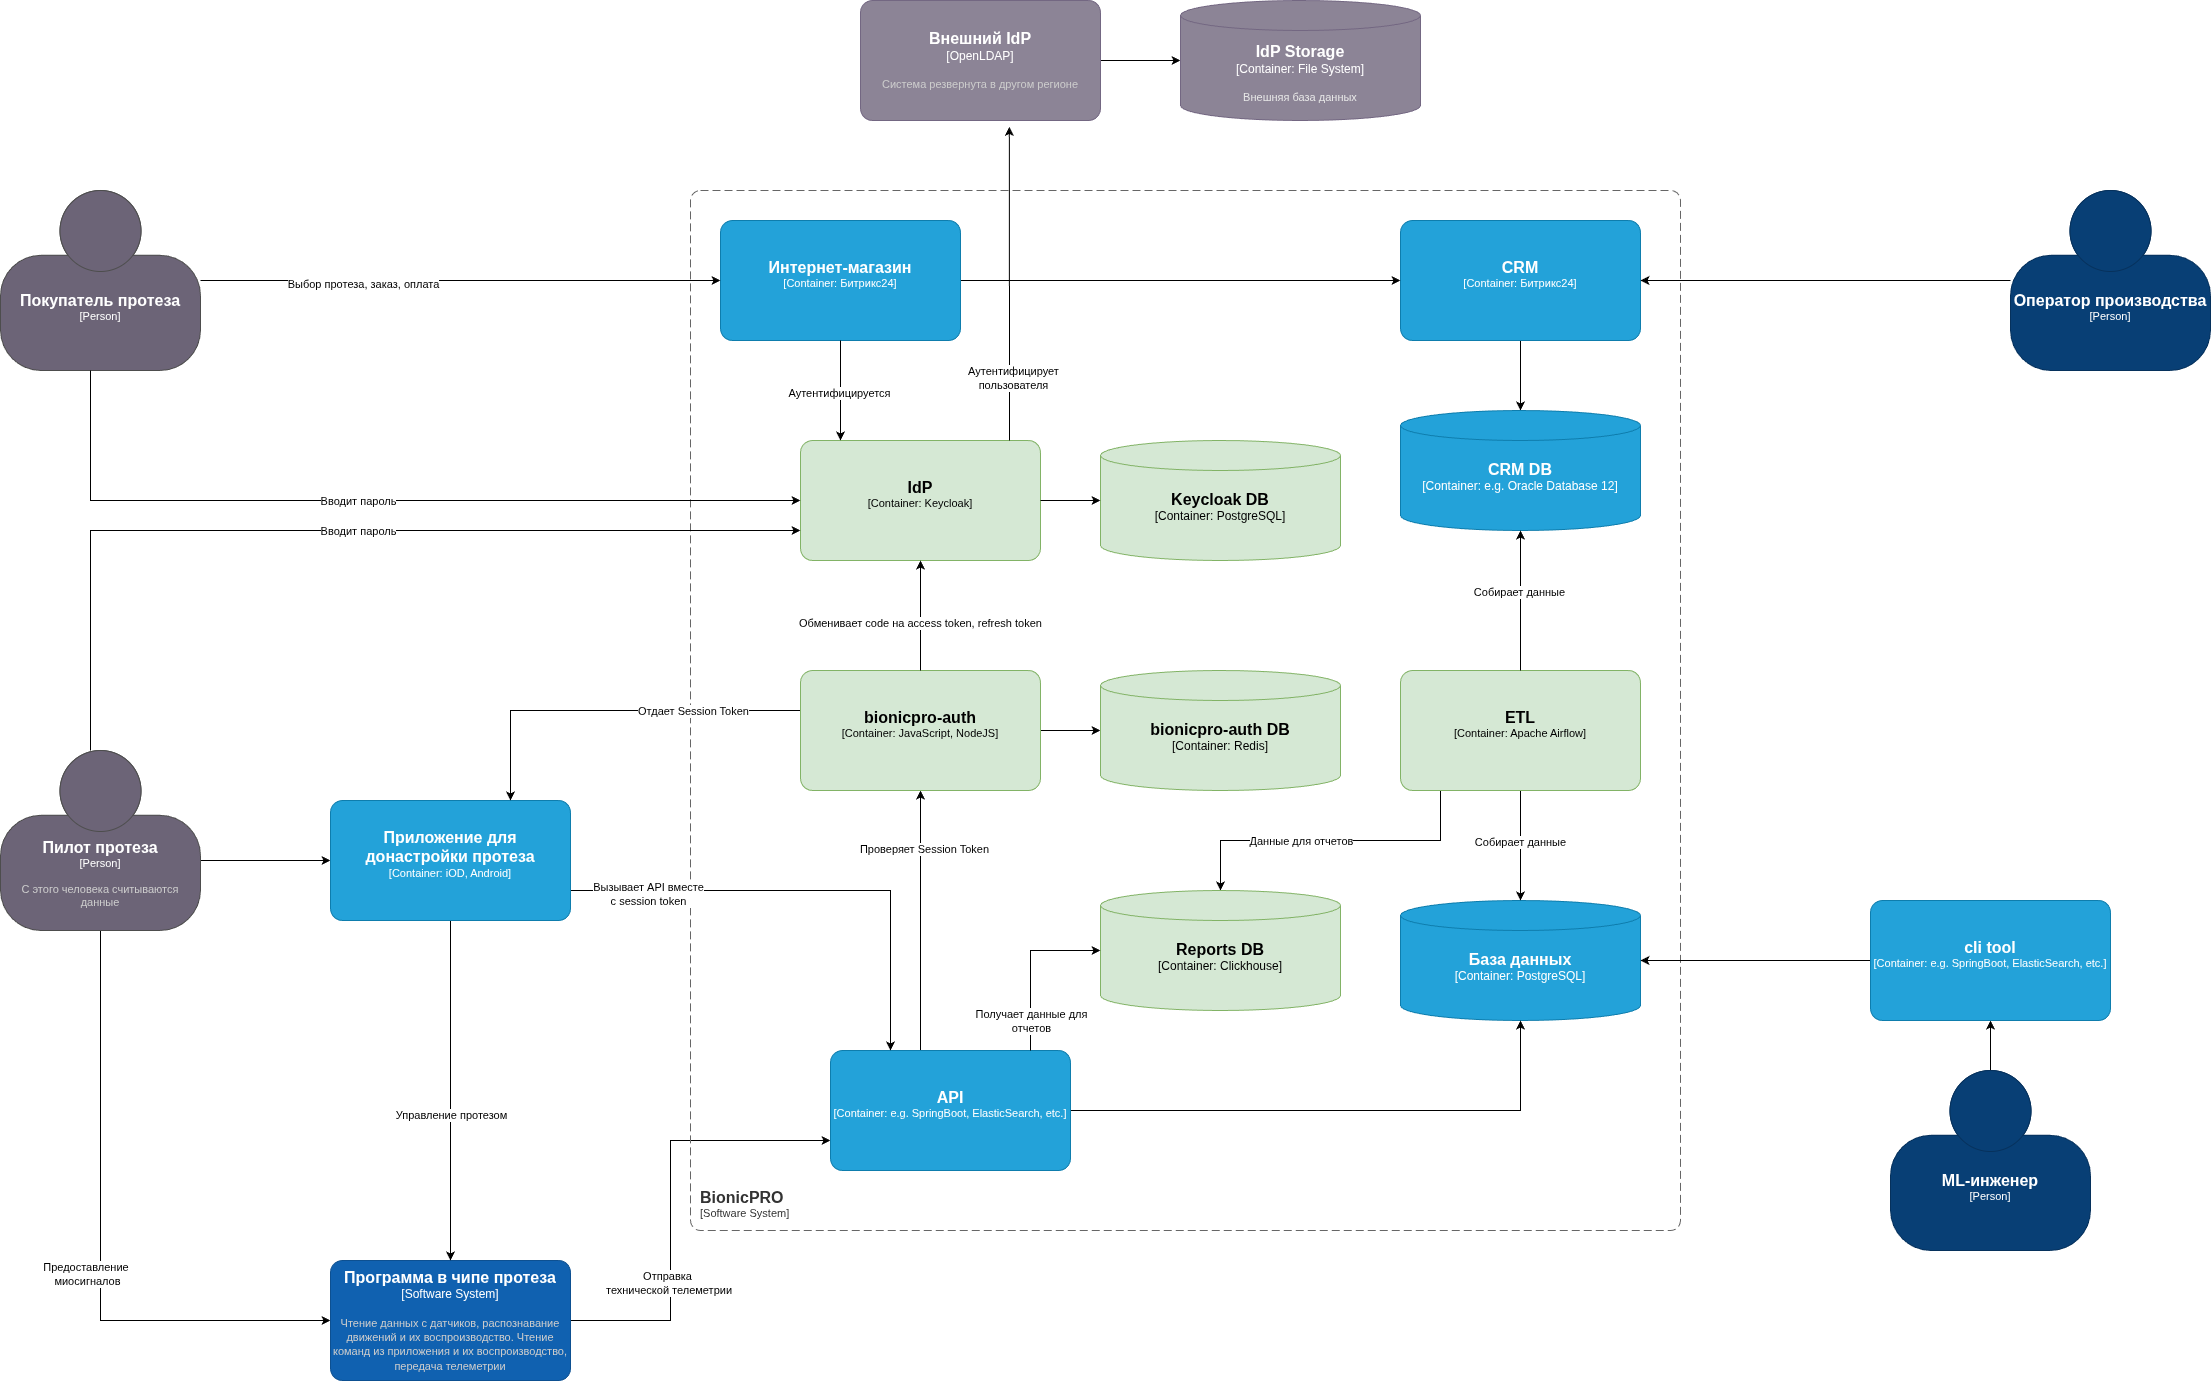
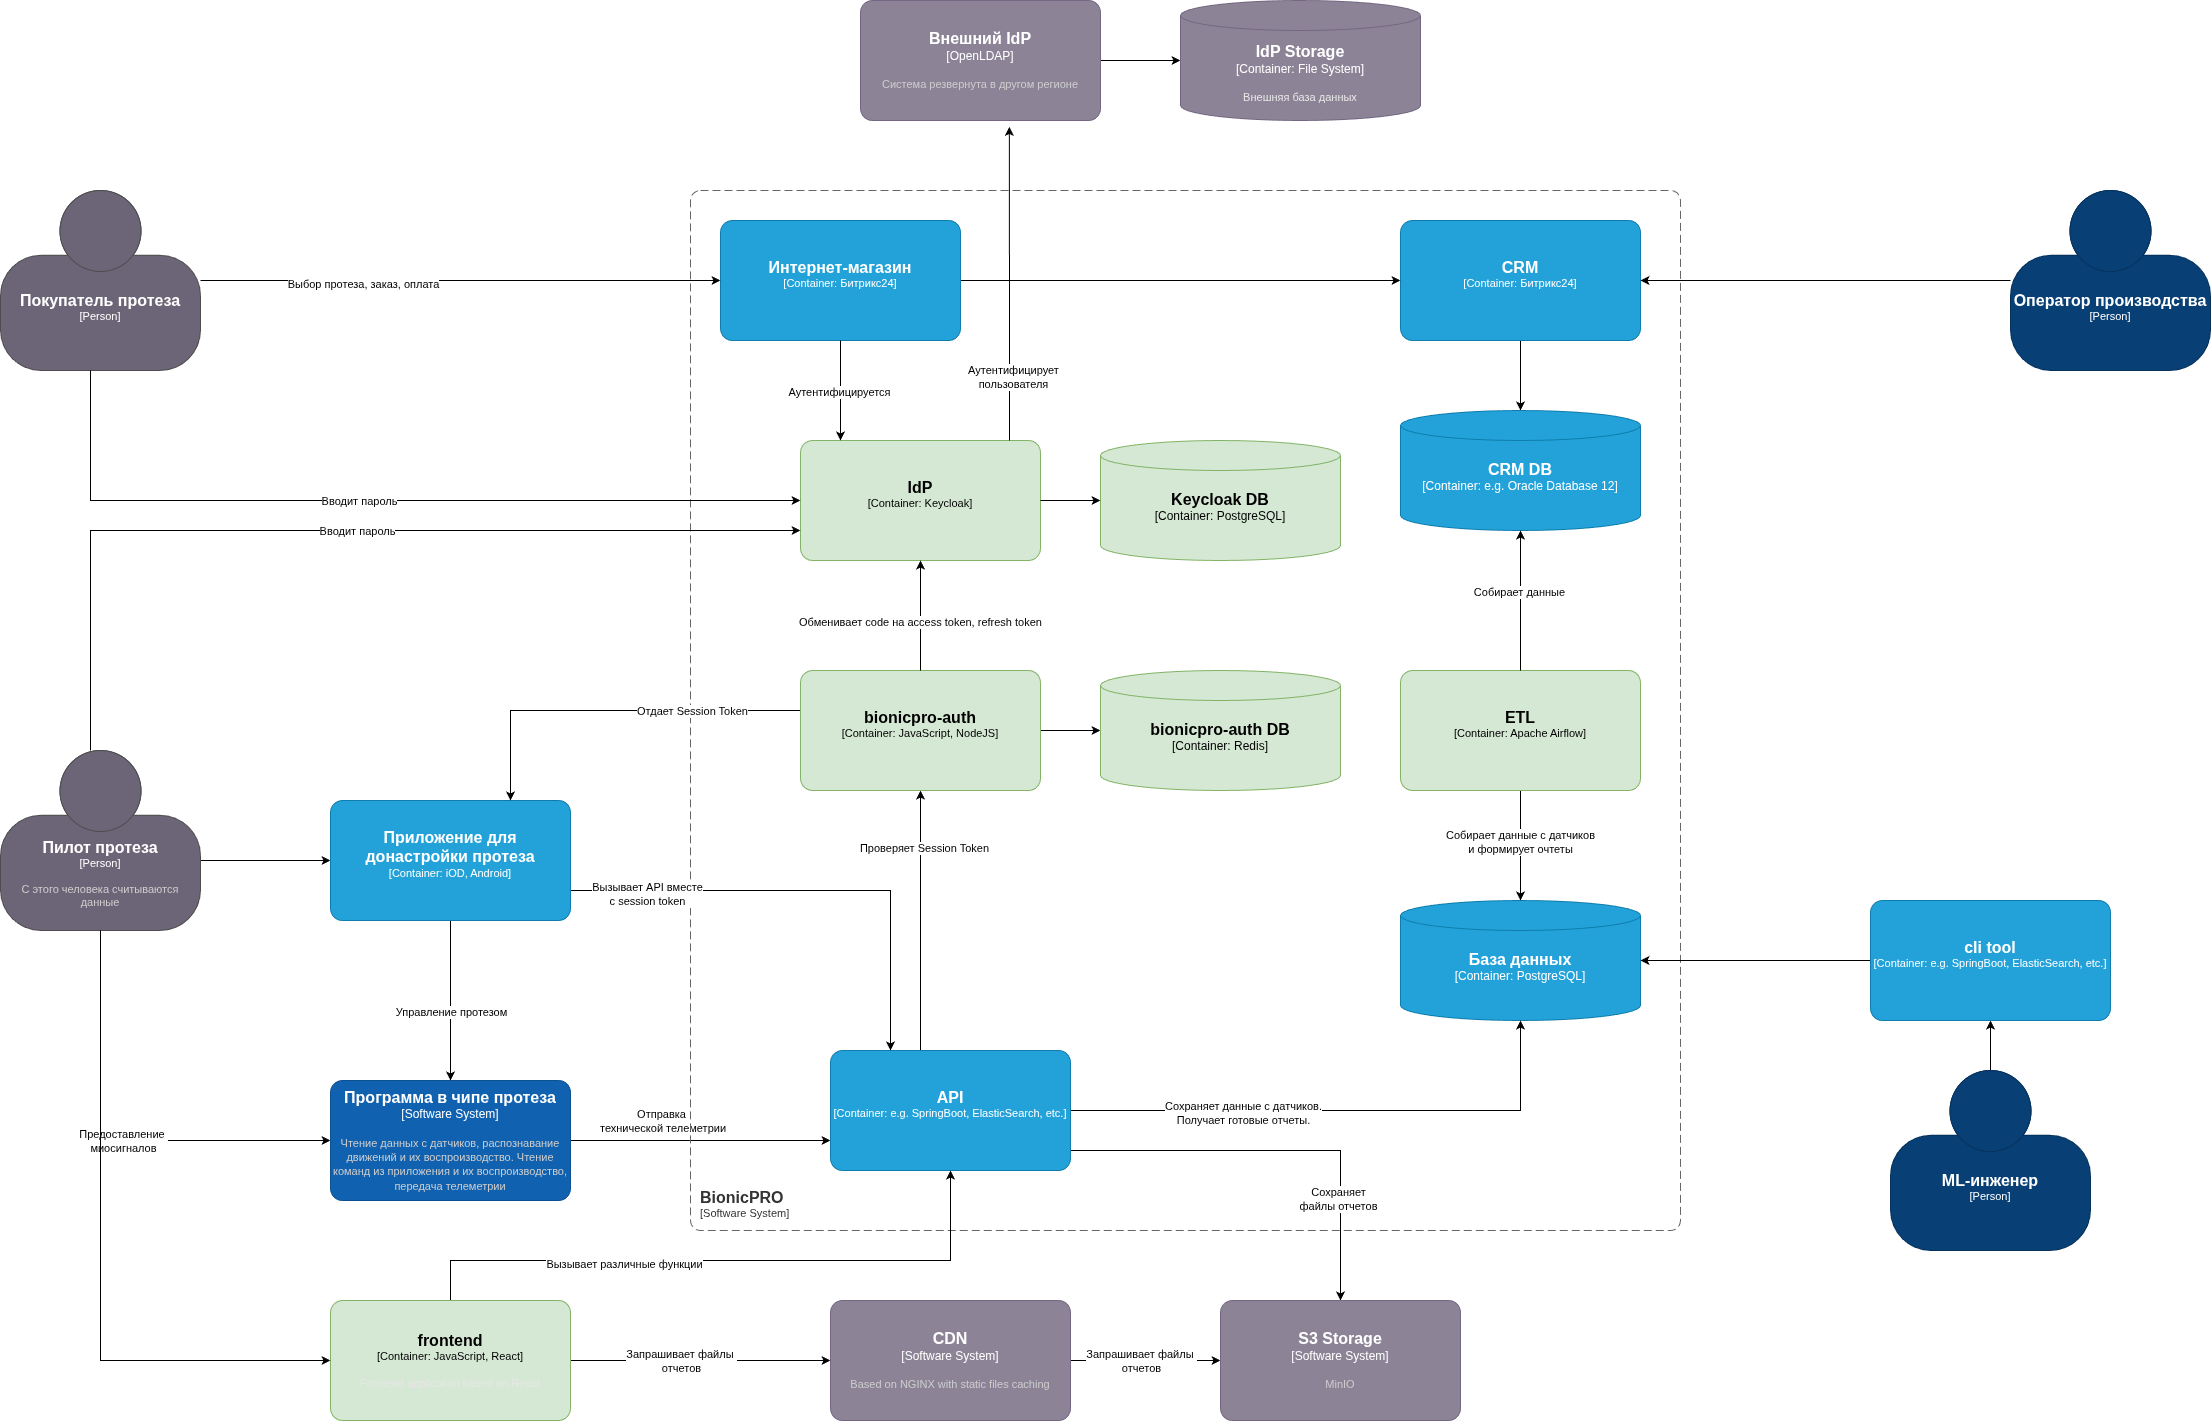
Task3 added description

diff --git a/Task3/README.md b/Task3/README.md
@@ -1,17 +1,7 @@
 # Разработка сервиса отчётов
 
-## ETL
+## Объектное хранилище
 
 ![C4](./img/c4.png)
 
-В архитектуру системы добавляется модуль *ETL* на основе *Apache Airflow*. В его задачи входит собирать данные из БД CRM и БД API, и, предварительно переработав, загружать в отдельную таблицу для очтетов.
-
-## Объектное хранилище
-
-Для хранения отчетов, логов и других файлов используется *MinIO* - высокопроизводительное решение для хранения объектов. MinIO предоставляет S3-совместимое API и веб-консоль для управления бакетами и файлами.
-
-### Бакеты MinIO
-
-- `reports` - для хранения сгенерированных отчетов
-- `logs` - для хранения логов системы
-- `temp` - для временного хранения файлов
+Для хранения отчетов, логов и других файлов используется *MinIO*, а доступ к файлам отчетов организуется через *CDN*. В данной реализации используем эмуляцию *CDN* при помощи NGinx со включенным кэшированием статических файлов.
